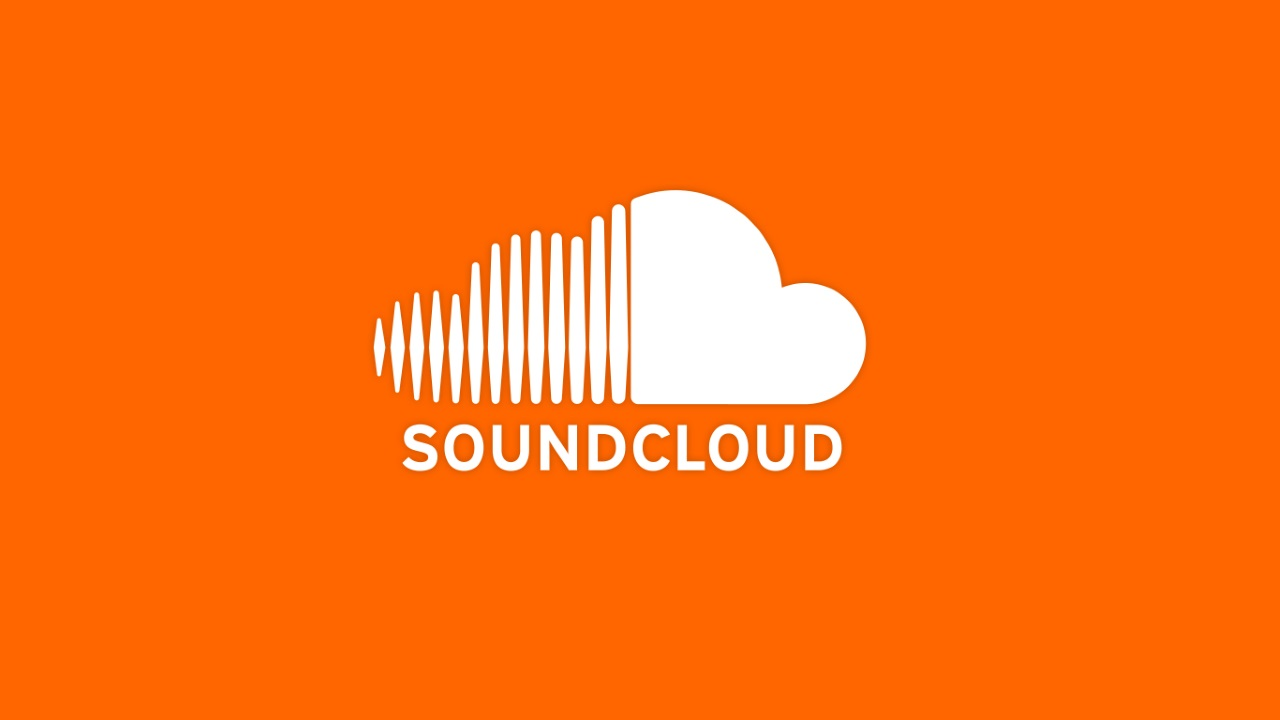
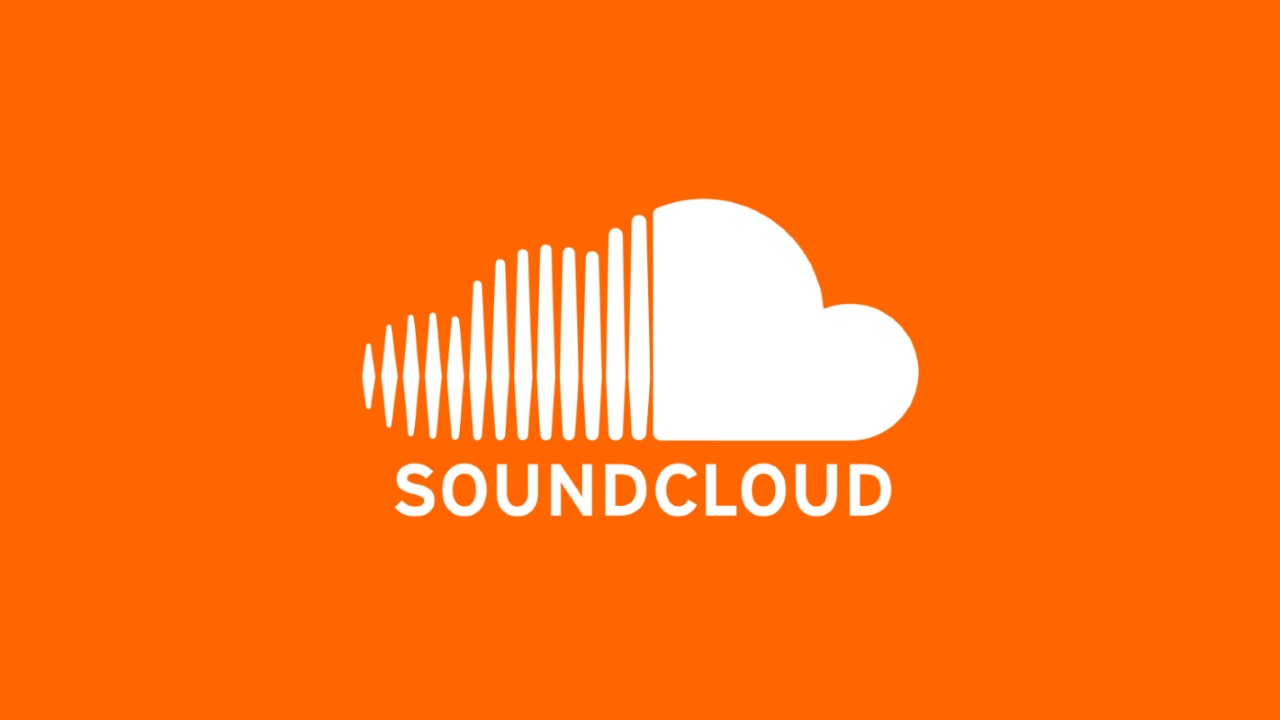
[add] dark fanart to work better with visualizations

Changed region(s): [[0.2812, 0.2444, 0.7188, 0.7333]]

diff --git a/resources/lib/soundcloud/provider.py b/resources/lib/soundcloud/provider.py
@@ -89,10 +89,8 @@ class Provider(kodion.AbstractProvider):
         return self.get_fanart(context)
 
     def get_fanart(self, context):
-        """
-            This will return a darker and (with blur) fanart
-            :return:
-            """
+        if context.get_settings().get_bool('soundcloud.fanart_dark.show', True):
+            return context.create_resource_path('media', 'fanart_dark.jpg')
         return context.create_resource_path('media', 'fanart.jpg')
 
     @kodion.RegisterProviderPath('^/play/$')
